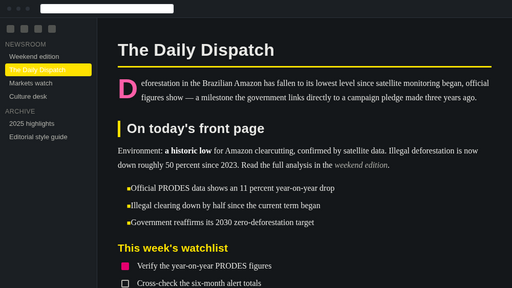
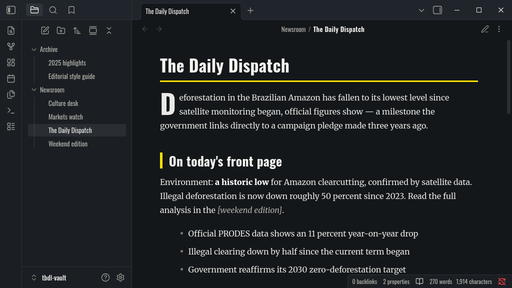
fix: v2.0.2 — drop-cap now actually renders, real Obsidian screenshots
Obsidian wraps every rendered block in a div.el-<tag> (e.g. div.el-p) in
reading view, so the old `.markdown-preview-section > p:first-of-type`
selector never matched a real note — the drop-cap only ever existed in
the store screenshots, never in the theme itself. Fixed with
`:nth-child(1 of .el-p)` and recolored it to follow --text-normal
(black in light mode, near-white in dark) instead of a fixed fuchsia
tint. Regenerated screenshot.png/-light/-dark from a real Obsidian
render of the fixed theme instead of the old mockup. Also dropped the
tribunedelyon.fr reference from the README.

diff --git a/theme.css b/theme.css
@@ -3,9 +3,10 @@
   Editorial news-magazine look: Merriweather (body) + Oswald (headings),
   signature yellow accent (#FFE200) for editorial rules/dividers and a
   fuchsia accent (#e5006f) for interactive/highlight elements — buttons,
-  toggles, tags, checked tasks, H3, drop-cap — generous line-height,
-  styled lists, blockquotes, links and code. Dark mode is a first-class
-  palette tuned for reading comfort and contrast, not an afterthought.
+  toggles, tags, checked tasks, H3 — a drop-cap on the first paragraph
+  (colored to match the surrounding text), generous line-height, styled
+  lists, blockquotes, links and code. Dark mode is a first-class palette
+  tuned for reading comfort and contrast, not an afterthought.
   MIT License.
 */
 
@@ -34,12 +35,6 @@ body {
   --tdl-blue: #0e1e3d;
   --tdl-red: #e85959;
   --tdl-fuchsia: #e5006f;
-
-  /* Text-safe fuchsia: used where the color sits directly on the page
-     background (H3, drop-cap) rather than as a filled chip. Re-pointed
-     to a lighter tint in .theme-dark so it keeps ~6.4:1 contrast on the
-     dark background instead of the ~3.9:1 the base hue gives there. */
-  --tdl-fuchsia-text: var(--tdl-fuchsia);
 
   /* Live Preview bullet dot (.list-bullet::after). Obsidian defaults it
      to var(--text-accent); black in light mode per request, and fuchsia
@@ -97,9 +92,6 @@ body {
   --text-accent: #ffd84d;
   --text-selection: rgba(255, 216, 77, 0.28);
 
-  /* Lighter tint so direct-on-background fuchsia text (H3, drop-cap)
-     keeps solid contrast against the dark palette — see --tdl-fuchsia-text. */
-  --tdl-fuchsia-text: #ff5fa8;
   --tdl-bullet-bg: var(--tdl-fuchsia);
 
   --interactive-normal: #20252b;
@@ -206,15 +198,21 @@ body {
   margin: 0 0 1.1em;
 }
 
-/* Drop-cap on the very first paragraph of a note (editorial touch) */
-.markdown-preview-section > p:first-of-type::first-letter {
+/* Drop-cap on the first paragraph of a note (editorial touch). Obsidian
+   wraps every rendered block in a div.el-<tag> (e.g. div.el-p), so the
+   paragraph is never a direct child of .markdown-preview-section — the
+   old `> p:first-of-type` selector never matched. :nth-child(1 of .el-p)
+   finds the first paragraph wrapper regardless of any heading before it.
+   Color follows --text-normal (black in light mode, near-white in dark)
+   instead of a fixed accent, so it always reads against the page. */
+.markdown-preview-section > div.el-p:nth-child(1 of .el-p) > p::first-letter {
   font-family: var(--heading-font);
   font-weight: 700;
   font-size: 3.4em;
   float: left;
   line-height: 0.8;
   padding: 0.05em 0.12em 0 0;
-  color: var(--tdl-fuchsia-text);
+  color: var(--text-normal);
 }
 
 /* -------------------------------------------------------------- EMPHASIS -- */

diff --git a/README.md b/README.md
@@ -1,17 +1,18 @@
 # tbdl — Obsidian theme
 
-An editorial news-magazine theme for Obsidian. Serif body type (Merriweather), condensed sans headings (Oswald), a signature yellow accent, a fuchsia interactive accent, a drop-cap on the first paragraph, styled lists, blockquotes, code, tables and callouts. Ships with the Google Material Icons font for use in notes, plus a dedicated dark palette.
+An editorial news-magazine theme for Obsidian. Serif body type (Merriweather), condensed sans headings (Oswald), a signature yellow accent, a fuchsia interactive accent, a drop-cap on the first paragraph (colored to match the surrounding text), styled lists, blockquotes, code, tables and callouts. Ships with the Google Material Icons font for use in notes, plus a dedicated dark palette.
 
-## What's new in v2
+## What's new
 
-- **Fuchsia accent** (`#e5006f`, from tribunedelyon.fr): now the interactive color — buttons, toggles, checked tasks, tags, H3 headings and the drop-cap. Yellow stays the editorial/masthead accent (rules, dividers, H1/H2 bars).
+- **v2.0.2 — drop-cap actually renders now.** Reading view wraps every block in a `div.el-<tag>` (e.g. `div.el-p`), so the old `.markdown-preview-section > p:first-of-type` selector never matched — the drop-cap never appeared in a real vault, only in mockups. Fixed with a selector that finds the first paragraph wrapper regardless of preceding headings, and recolored it to follow the body text (black in light mode, near-white in dark) instead of a fixed fuchsia tint.
+- **Fuchsia accent** (`#e5006f`): the interactive color — buttons, toggles, checked tasks, tags, H3 headings. Yellow stays the editorial/masthead accent (rules, dividers, H1/H2 bars).
 - **Bullet dot** in Live Preview (edit mode) is now explicitly black in light mode (was inheriting the blue `--text-accent`), and fuchsia in dark mode for visibility.
-- **Dark mode contrast pass**: fixed several elements that were unreadable or invisible in dark mode (drop-cap, italic text, blockquote text, text selection) and re-tuned the fuchsia tint used for on-background text so it keeps solid contrast against the dark palette.
+- **Dark mode contrast pass**: fixed several elements that were unreadable or invisible in dark mode (italic text, blockquote text, text selection) and re-tuned the fuchsia tint used for on-background text so it keeps solid contrast against the dark palette.
 
 ## Features
 
 - **Typography**: Merriweather for the body, Oswald for headings and the UI.
-- **Editorial accents**: yellow (`#FFE200`) rules under H1, left bar on H2, fuchsia (`#e5006f`) H3, fuchsia drop-cap on the first paragraph.
+- **Editorial accents**: yellow (`#FFE200`) rules under H1, left bar on H2, fuchsia (`#e5006f`) H3, a drop-cap on the first paragraph (colored to match the body text).
 - **Lists**: square yellow bullet markers (reading view), black/fuchsia bullet dot (Live Preview), Oswald blue ordered-list numerals.
 - **Blockquotes**: yellow left bar on a soft cream background.
 - **Code & tables**: styled code blocks, yellow header rows, themed frontmatter and callouts.
